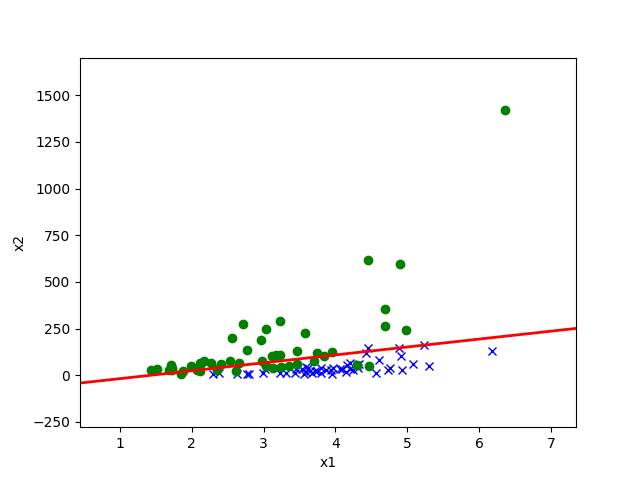
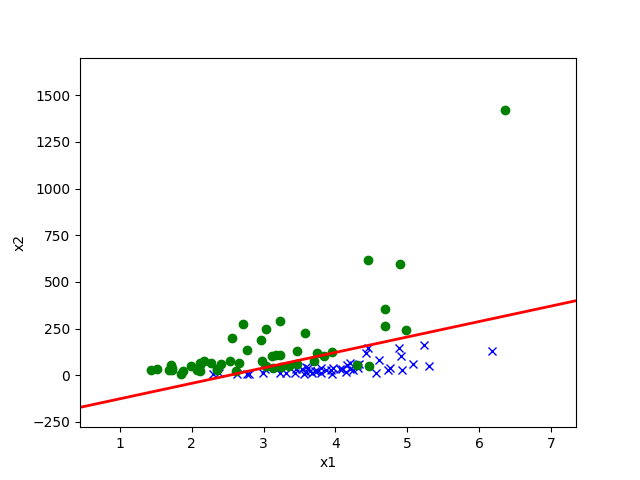
study: [GSMSEPLC-27] Taking Lecture CS229 : fixed formula of gradient and hessian in "p01b_logreg.py" using correct derivation from "p01b_logreg_formula_to_code". ---  - fixed formula of gradient and hessian in "p01b_logreg.py" using correct derivation from "p01b_logreg_formula_to_code".

Changed region(s): [[0.125, 0.625, 0.9062, 0.875]]

diff --git a/Lectures/cs229/2018/src/p01b_logreg.py b/Lectures/cs229/2018/src/p01b_logreg.py
@@ -63,13 +63,12 @@ class LogisticRegression(LinearModel):
             g_theta_x = 1 / (1 + np.exp(-np.dot(x, self.theta.T)))  # (800, 1) = (800, 3) @ (3, 1)
 
             # gradient
-            gradient = -(x.T @ (y - g_theta_x)) / m  # (3, 1) = (3, 800) @ (800, 1)
+            # (3, 1) = (3, 800) @ (800, 1)
+            gradient = -(x.T @ (y - g_theta_x)) / m
 
             # hessian
-            hessian = (x.T @ g_theta_x * (1 - g_theta_x.T) @ x) / m  # (3, 3) = (3, 800) @ (800, 1) @ (1, 800) @ (800, 3)
-            hessian_new = np.dot(x.T, g_theta_x * (1 - g_theta_x) * x) / m
-
-            hessian = hessian_new
+            # (3, 3) = (3, 800) @ (800, 1) * (800, 1) * (800, 3)
+            hessian = x.T @ (g_theta_x * (1 - g_theta_x) * x) / m
 
             # use generalization of Newton’s method for multidimensional setting. (the previous is for scalar)
             theta_updated = self.theta - (gradient.T @ np.linalg.inv(hessian))
